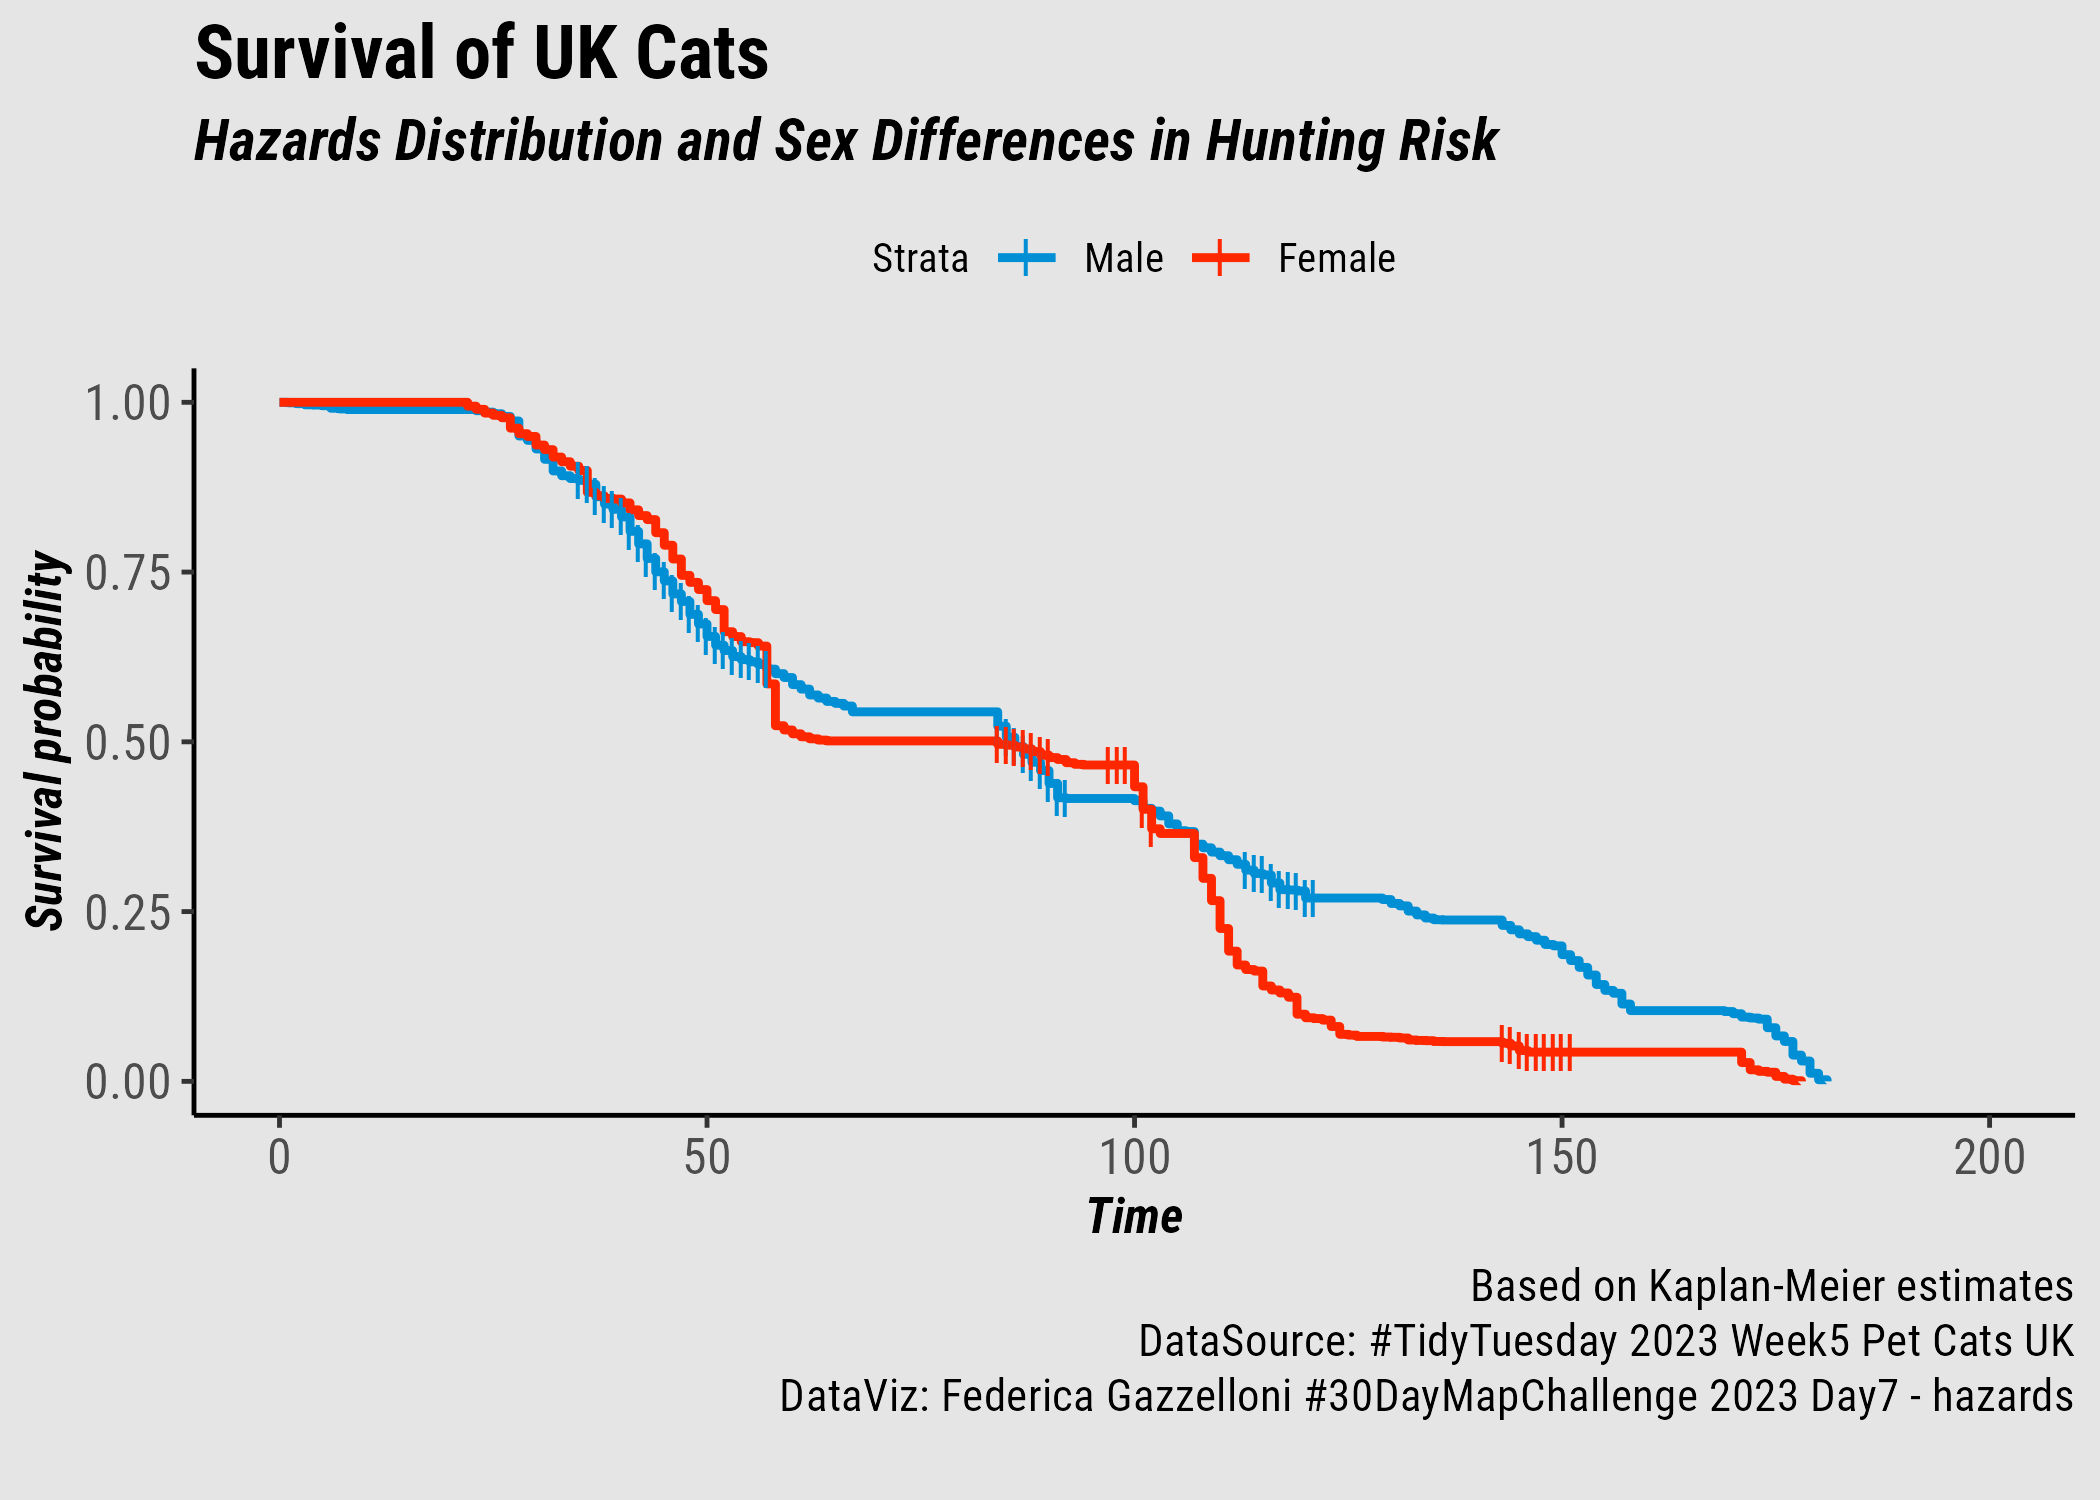
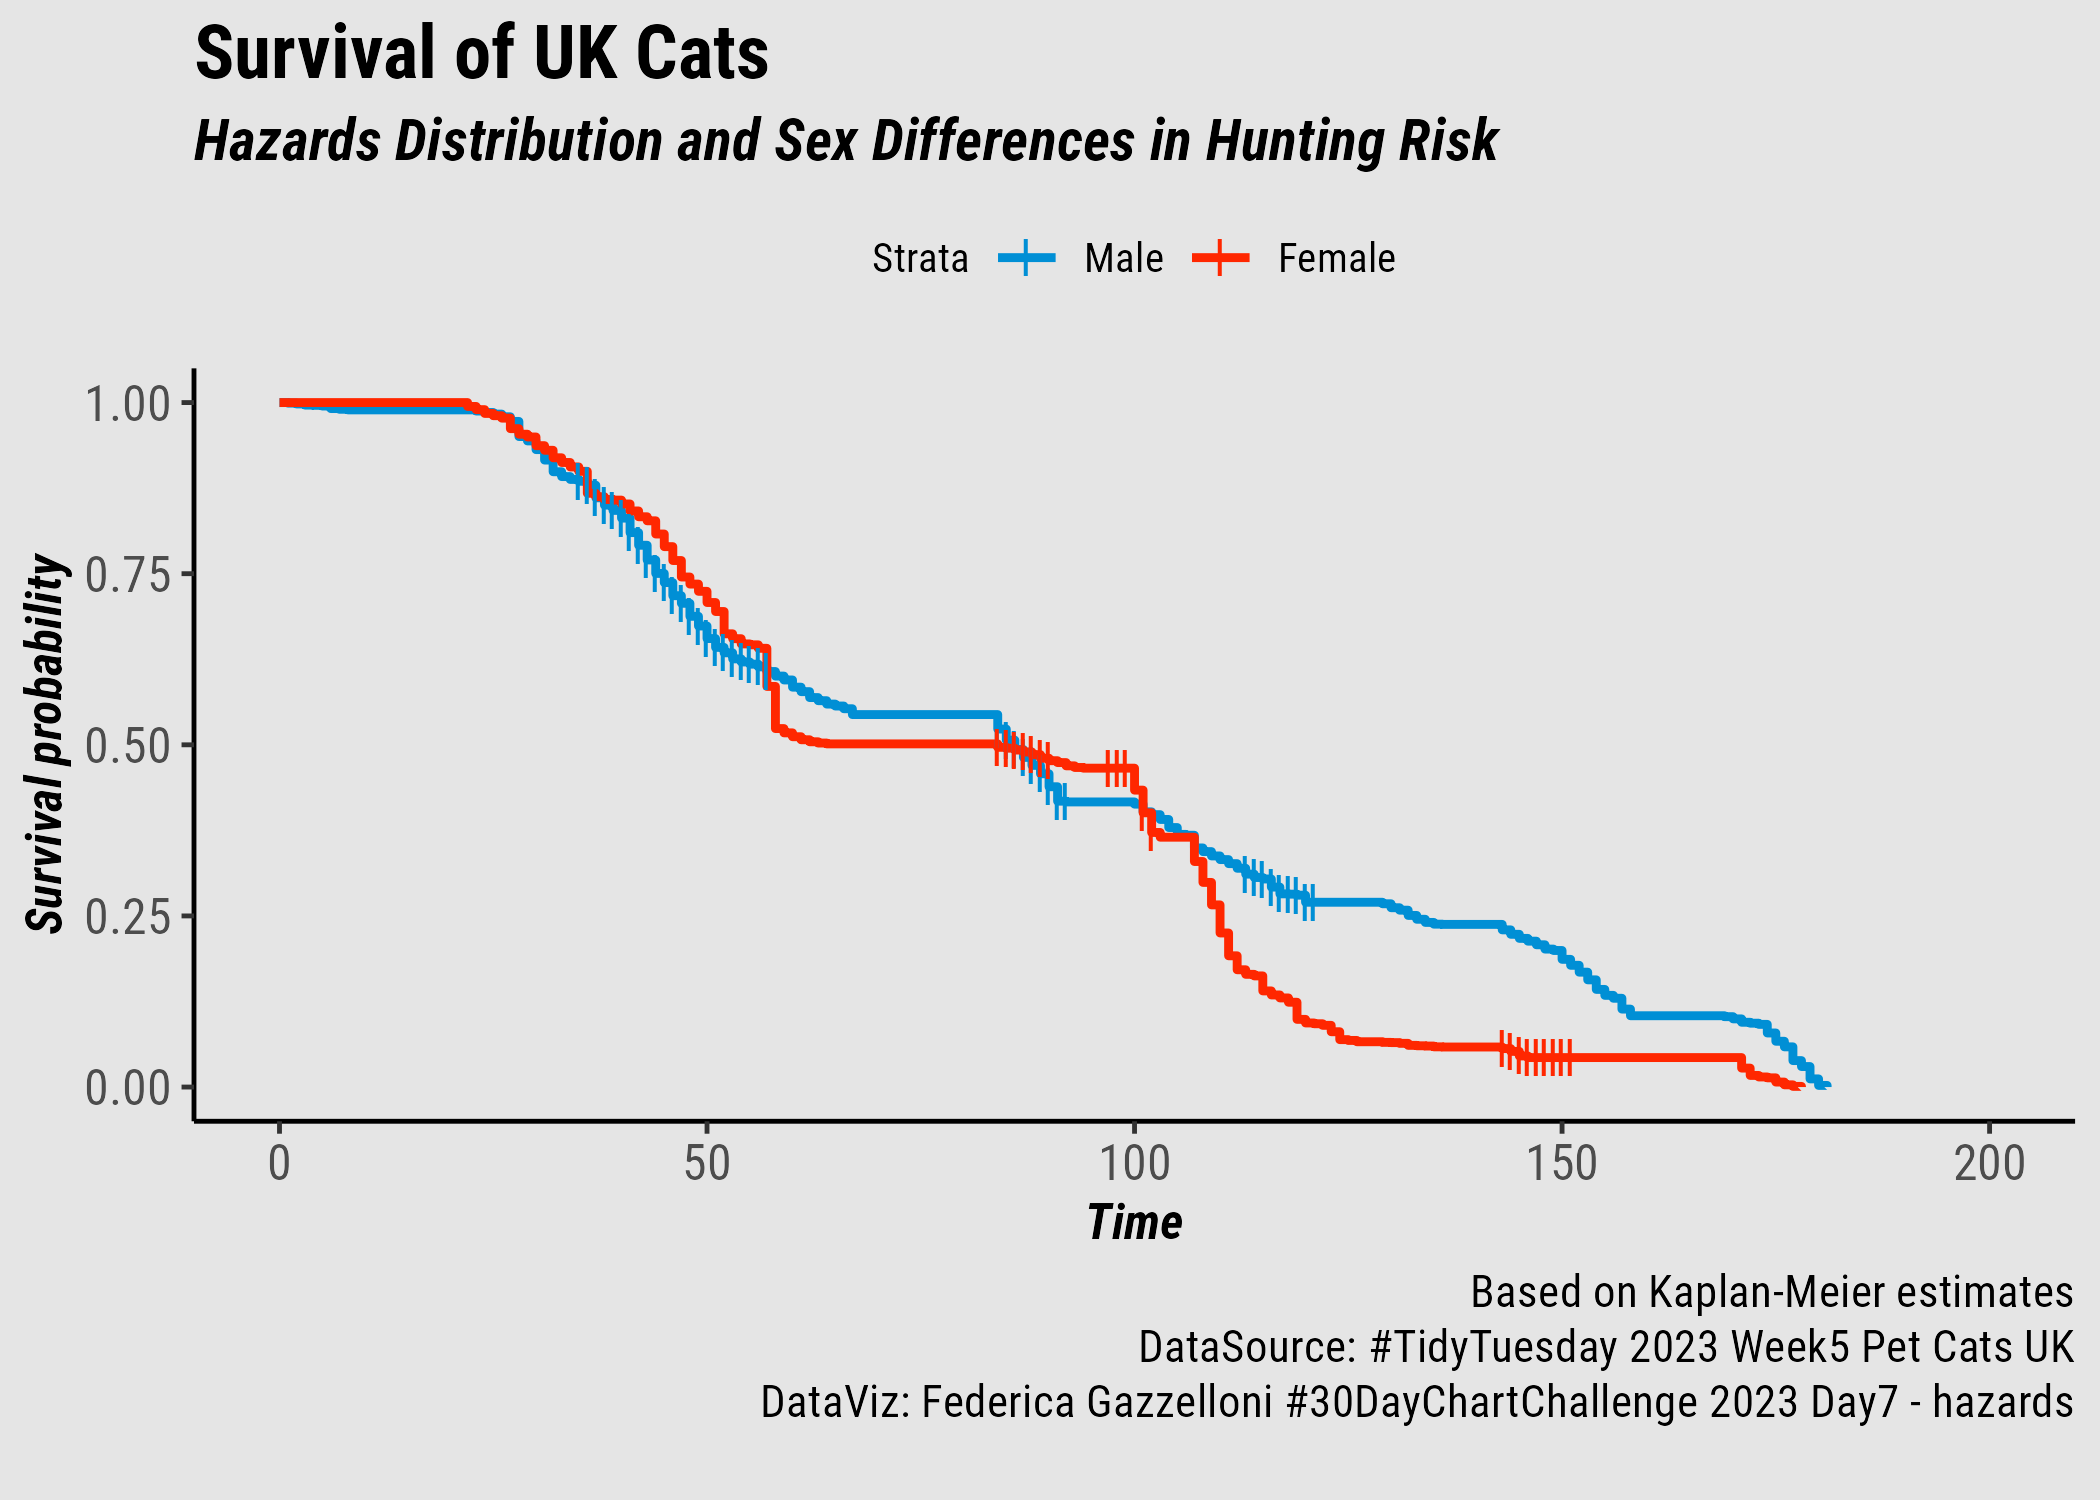
updating all with #30DayChartChallenge instead of #30DayMapChallenge (blind-typo)

diff --git a/README.md b/README.md
@@ -21,7 +21,7 @@ Several TidyTuesday interesting examples can be found in the main repository:
 #### Other #DataViz projects I contribute to:
 
 |                                                                                        |                                                                                             |
-|-----------------------------------|-------------------------------------|
+|----------------------------------------------------------------------------------------|---------------------------------------------------------------------------------------------|
 | [30DayChartChallenge-2021](https://github.com/Fgazzelloni/rstats-chart-challenge-2021) | [30DayMapChallenge-2021](https://github.com/Fgazzelloni/30DayMapChallenge/tree/master/2021) |
 | [30DayChartChallenge-2022](https://github.com/Fgazzelloni/30DayChartChallenge)         | [30DayMapChallenge-2022](https://github.com/Fgazzelloni/30DayMapChallenge/tree/master/2022) |
 | [30DayChartChallenge-2023](https://github.com/Fgazzelloni/30DayChartChallenge)         |                                                                                             |
@@ -33,7 +33,7 @@ Several TidyTuesday interesting examples can be found in the main repository:
 <!-- TABLE START -->
 
 |                                                                                                                                                                             |                                                                                                                                                                                                                        |                                                                                                                                                                                                                                             |                                                                                                                                                                                        |
-|------------------|------------------|-------------------|------------------|
+|-----------------------------------------------------------------------------------------------------------------------------------------------------------------------------|------------------------------------------------------------------------------------------------------------------------------------------------------------------------------------------------------------------------|---------------------------------------------------------------------------------------------------------------------------------------------------------------------------------------------------------------------------------------------|----------------------------------------------------------------------------------------------------------------------------------------------------------------------------------------|
 | Week1<br>Bring your own data to start 2023                                                                                                                                  | Week2<br>Project FeederWatcher                                                                                                                                                                                         | Week3<br>Art History                                                                                                                                                                                                                        | Week4<br>Alone data                                                                                                                                                                    |
 | [![w1 boy](data/2023/w1_byod/w1_byo.png)](https://github.com/Fgazzelloni/TidyTuesday/blob/main/data/2023/w1_byod/w1_byo.qmd)                                                | [![w2_BFWd](data/2023/w2_BFWd/w2_BFWd.png)](https://github.com/Fgazzelloni/TidyTuesday/blob/main/data/2023/w2_BFWd/w2_BFWd.qmd)                                                                                        | [![w3_Arhd](data/2023/w3_Arhd/w3_Arhd.png)](https://github.com/Fgazzelloni/TidyTuesday/blob/main/data/2023/w3_Arhd/w3_Arhd.qmd)                                                                                                             | [![w4_Alnd](data/2023/w4_Alnd/w4_Alnd.png)](https://github.com/Fgazzelloni/TidyTuesday/blob/main/data/2023/w4_Alnd/w4_Alnd.qmd)                                                        |
 | Week5<br>PCUK                                                                                                                                                               | Week6<br>BTSP                                                                                                                                                                                                          | [Week7](ata/2022/w7_dubois)<br>[`#DuBoisChallenge2022`](https://github.com/rfordatascience/tidytuesday/blob/master/data/2022/2022-02-15/readme.md)                                                                                          | [Week8](data/2022/w8_wfi)<br>[World Freedom index](https://github.com/rfordatascience/tidytuesday/blob/master/data/2022/2022-02-22/readme.md)                                          |

diff --git a/data/2023/README.md b/data/2023/README.md
@@ -3,7 +3,7 @@
 2023 series of `#TidyTuesday` data visualizations.
 
 |                                                                                                                       |                                 |                                 |                                                                                                                       |
-|------------------|-------------------|------------------|------------------|
+|-----------------------------------------------------------------------------------------------------------------------|---------------------------------|---------------------------------|-----------------------------------------------------------------------------------------------------------------------|
 | [![w1_byo](w1_byod/w1_byo.png)](https://github.com/Fgazzelloni/TidyTuesday/blob/main/data/2023/w1_byod/w1_byo.qmd)    | ![w2_BFWd](w2_BFWd/w2_BFWd.png) | ![w3_Arhd](w3_Arhd/w3_Arhd.png) | [![w4_Alnd](w4_Alnd/w4_Alnd.png)](https://github.com/Fgazzelloni/TidyTuesday/blob/main/data/2023/w4_Alnd/w4_Alnd.qmd) |
 | [![w5_PCUK](w5_PCUK/w5_PCUK.png)](https://github.com/Fgazzelloni/TidyTuesday/blob/main/data/2023/w5_PCUK/w5_PCUK.qmd) | ![w6_BTSP](w6_BTSP/w6_BTSP.png) |                                 |                                                                                                                       |
 |                                                                                                                       |                                 |                                 |                                                                                                                       |
